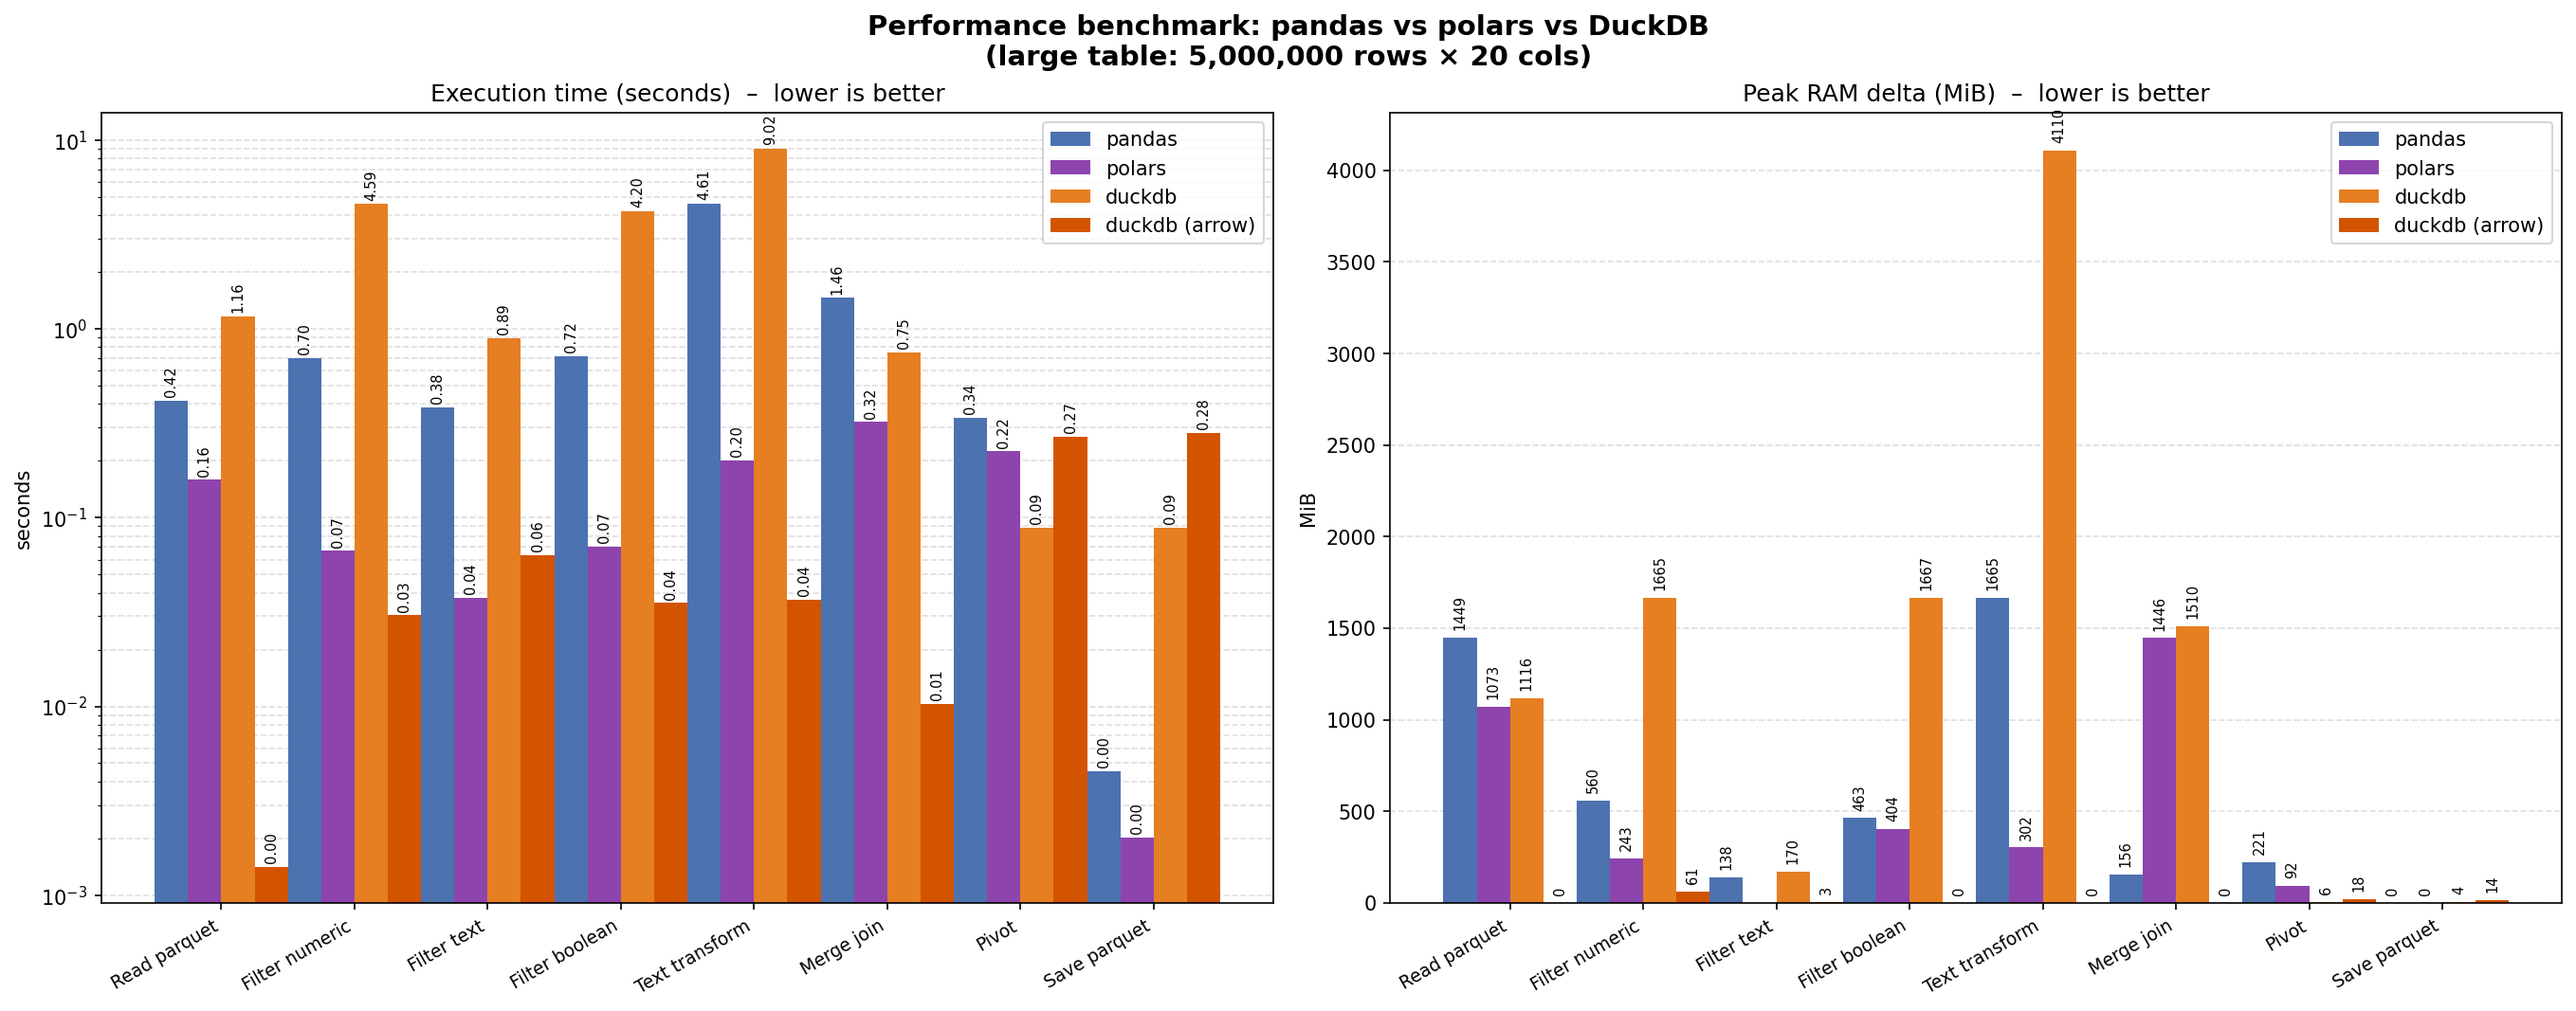
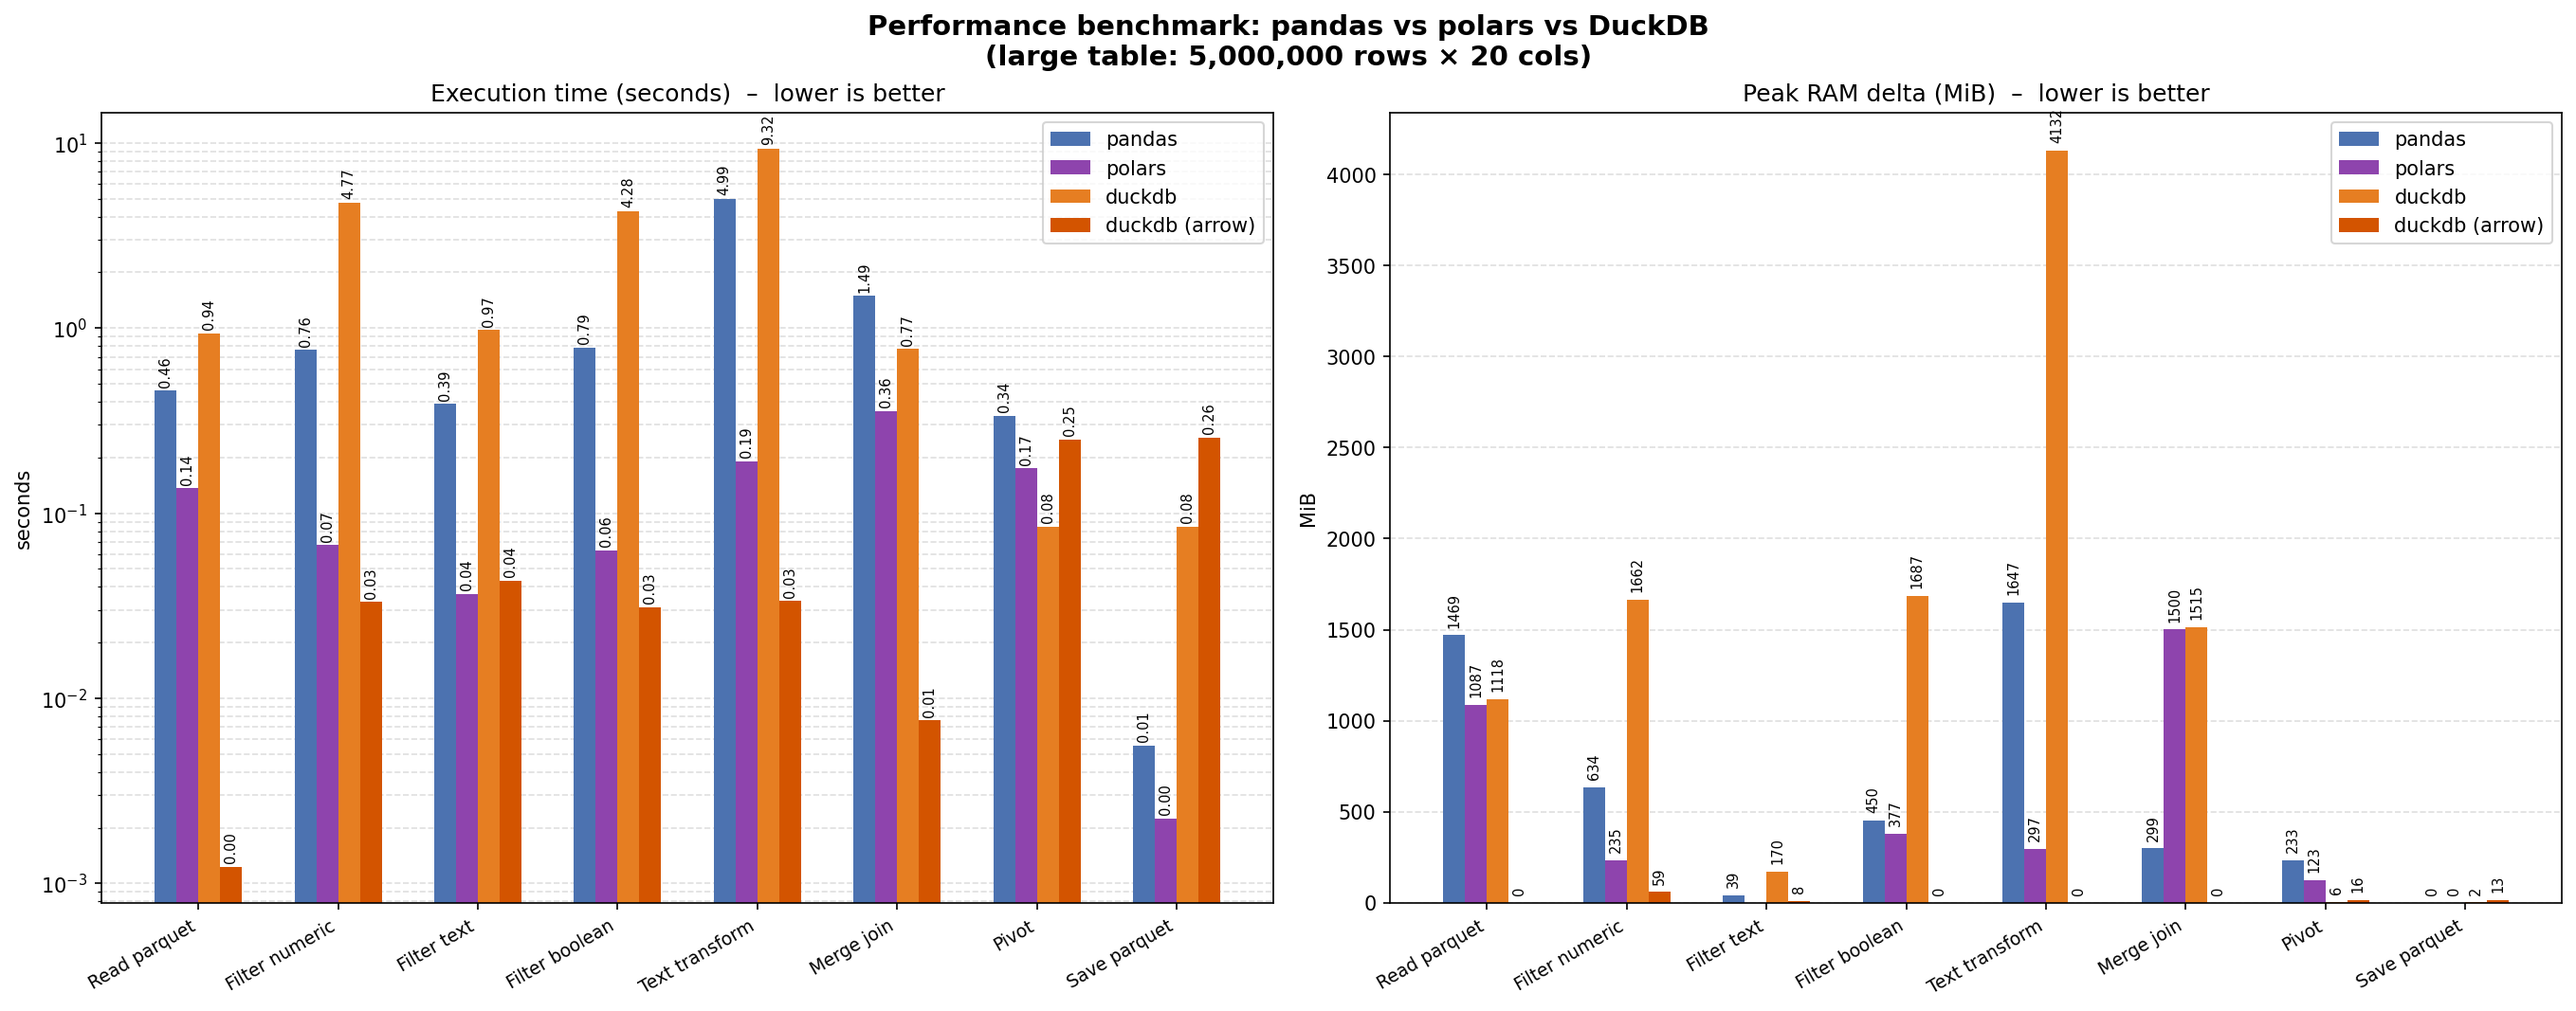
Gap en la gráfica

diff --git a/main.py b/main.py
@@ -579,7 +579,8 @@ def plot_results(
 ) -> None:
     """Create and save a grouped bar chart comparing the three libraries."""
     n      = len(OPS)
-    x      = np.arange(n)
+    gap    = 1.6          # >1 adds blank space between benchmark groups
+    x      = np.arange(n) * gap
     width  = 0.25
 
     times_pd = [r[0] for r in pandas_res]
